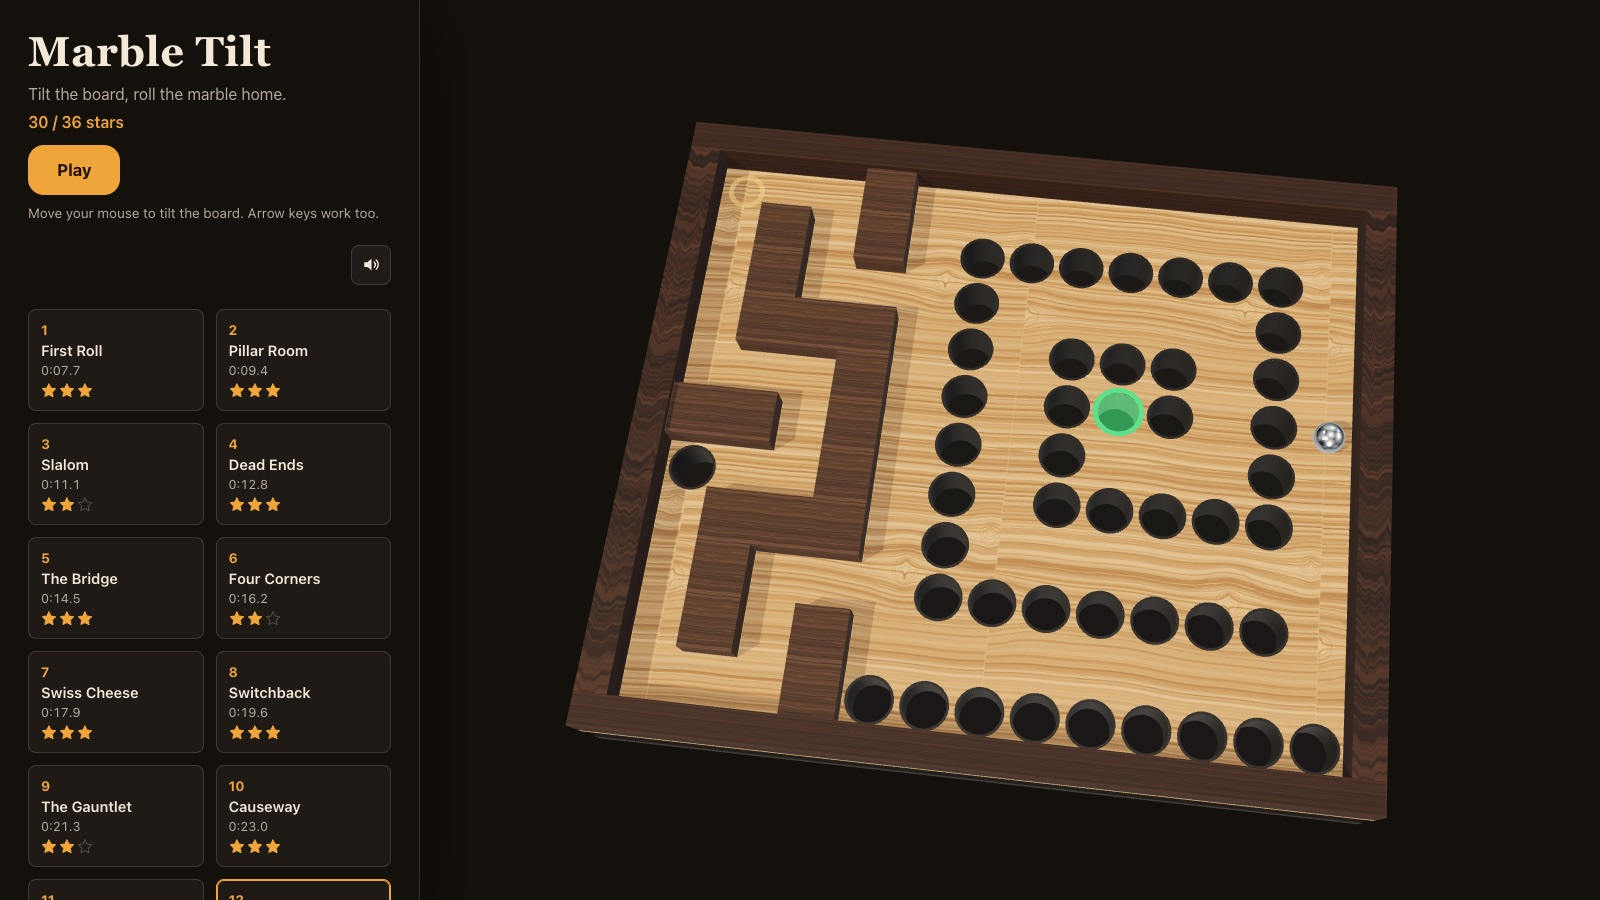
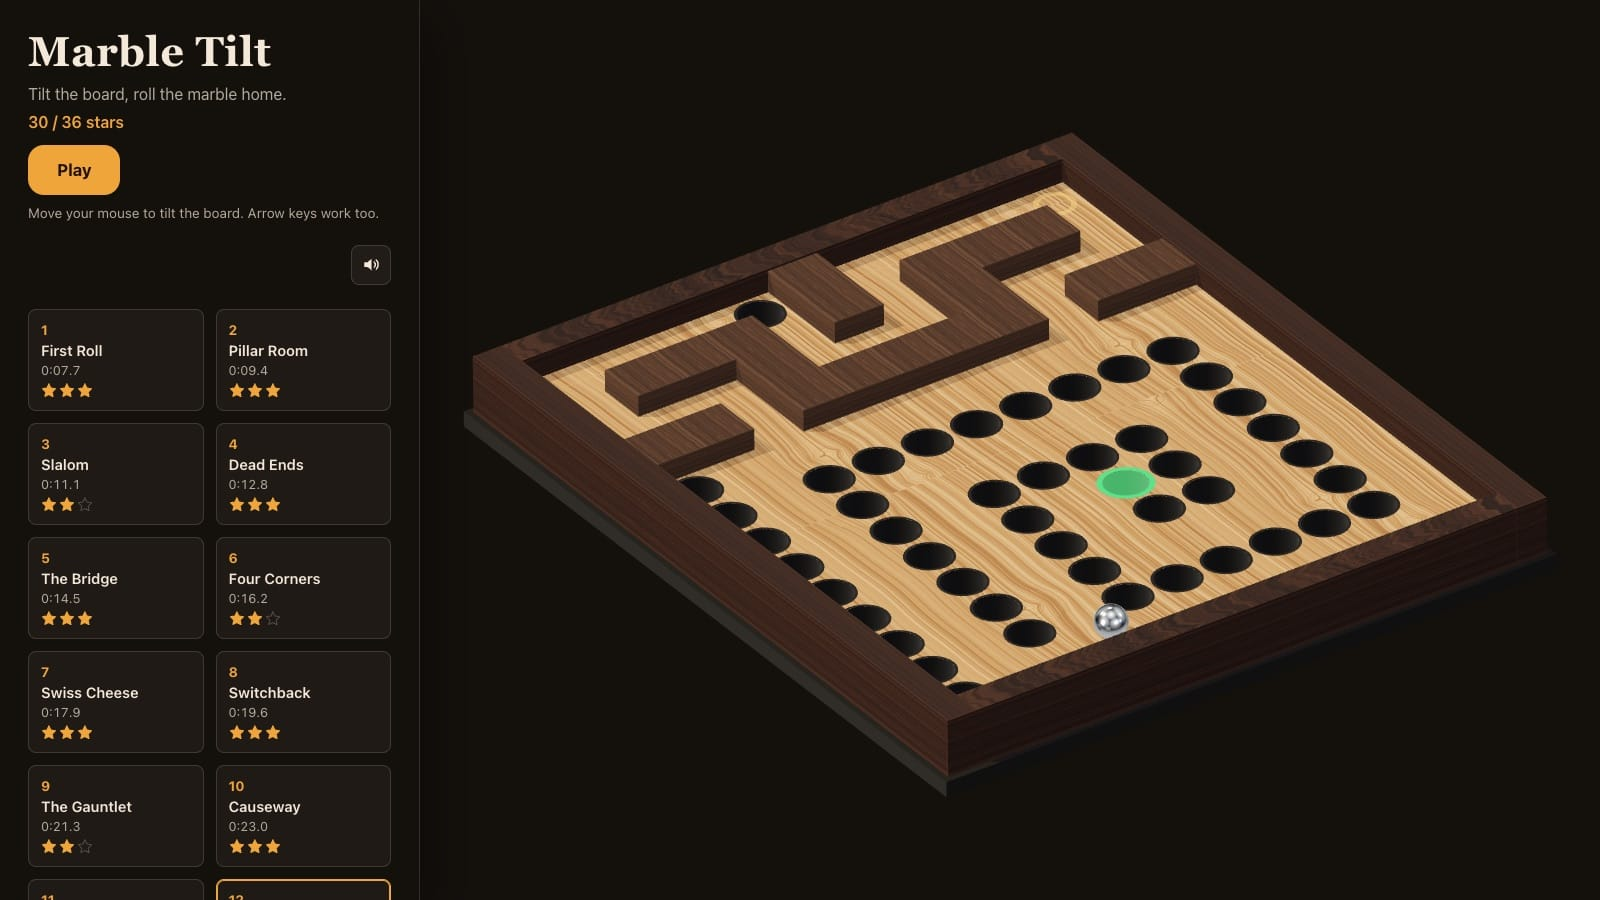
Refresh Marble Tilt for its isometric view
Marble Tilt 1.1.0 draws the board in a true isometric view, so the old
thumbnail showed a camera the game no longer has. The card and social
preview now use a current screenshot.

Changed region(s): [[0.2812, 0.1244, 0.9688, 0.9333]]

diff --git a/REQUIREMENTS.md b/REQUIREMENTS.md
@@ -34,6 +34,7 @@ Functional and security constraints for **ronpicard.com**. Update this file when
 - The Orbit Golf project MUST include a local gameplay thumbnail, a short introduction, and playable demo and source code links; it MUST appear first as the September 19, 2026 addition.
 - The Orbit Golf project MUST use a current local gameplay screenshot for its blog thumbnail and Open Graph image.
 - The Marble Tilt project MUST include a local gameplay thumbnail, a short introduction, and playable demo and source code links; it MUST appear first as the September 20, 2026 addition.
+- The Marble Tilt project MUST use a current local gameplay screenshot for its blog thumbnail and Open Graph image.
 - Article metadata MUST pass the shared runtime schema before the app or build scripts consume it.
 - Article HTML MUST be extracted to per-article files under `public/article-bodies/`; the homepage catalog MUST load metadata only.
 - Public blog slugs MUST be derived from post titles (not legacy storage slugs); legacy slugs from the pre–Mar 2026 naming scheme MUST still resolve for bookmarks and prerendered paths.

diff --git a/CHANGELOG.md b/CHANGELOG.md
@@ -8,6 +8,7 @@ The format is based on [Keep a Changelog](https://keepachangelog.com/en/1.1.0/).
 
 ### Changed
 
+- Marble Tilt's blog thumbnail and social link preview show its new isometric view of the board, captured September 20, 2026.
 - Orbit Golf's blog thumbnail, social link preview, and introduction reflect its mini-golf redesign with walled courses, the alien golfer, and the new space backdrop, captured September 19, 2026.
 - Pool Rooms' blog thumbnail and social link preview use a fresh gameplay screenshot of the updated Sun Pavilion, captured September 13, 2026.
 - Periodic Table Element Visualizer's blog thumbnail and social link preview use a fresh screenshot of the updated elemental interface, captured September 13, 2026.
